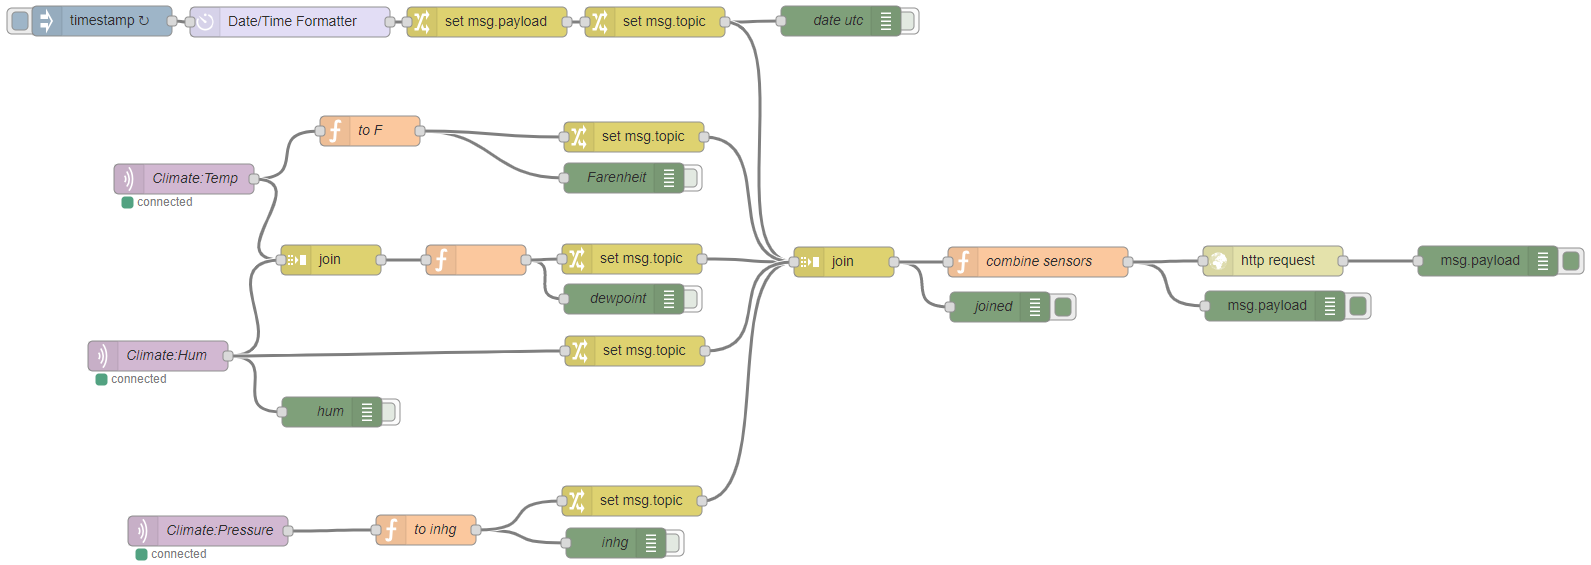
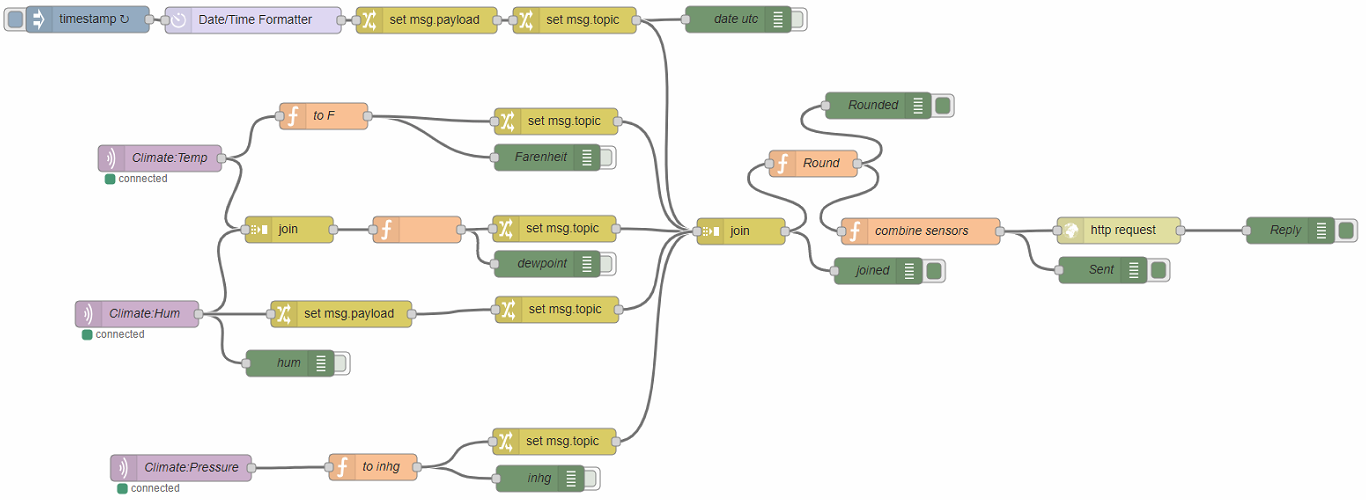
Version 1.1

Changed region(s): [[0.0, 0.0, 1.0, 0.99], [0.5842, 0.18, 0.7072, 0.27], [0.5534, 0.27, 0.6457, 0.39]]

diff --git a/README.md b/README.md
@@ -92,6 +92,26 @@ This combines the different sensors in a function that looks like this
   ```
   Replace **msg.siteid** and **msg.auth** with your own information from the WOW website.
   in **msg.payload** it combines the different sensors with the [Weather Data](weather data) that you have and you need to change this to what you are using.
+* **Round**  
+This takes all the variables and rounds them down to two decimals
+   ```
+   // List all the variables that you want rounded
+   var pressure = msg.payload.pressure;
+   var temp = msg.payload.temp;
+   var humidity = msg.payload.humidity;
+   var dewpoint = msg.payload.dewpoint;
+   var dateutc = msg.payload.dateutc;
+   // Create a new payload with rounded numbers
+   msg.payload = {
+     pressure: pressure.toFixed(2),
+     temp : temp.toFixed(2),
+     humidity: humidity.toFixed(2),
+     dewpoint: dewpoint.toFixed(2),
+     dateutc: dateutc,
+   };
+   return msg;
+   ```
+   The first part creates new variables from you joined values so you have to match these. Once all variables are created it makes a new payload with the rounded numbers. Don't forget that you still need to add the UTC date but with no change here. Otherwise the URL posting will be wrong.
 
 ## Links:
 Encoding, formatting and data instructions
@@ -102,3 +122,9 @@ https://www.smhi.se/vadret/vadret-i-sverige/mina-observationer-wow
 
 My site
 https://wow.metoffice.gov.uk/observations/details?site_id=24855254-ce02-e911-9462-0003ff598847
+
+## Changelog
+**1.0** _(2018-12-19)_
+First release
+**1.1** _(2018-12-20)_
+Added function to round numbers and change the humidity to a number to.
